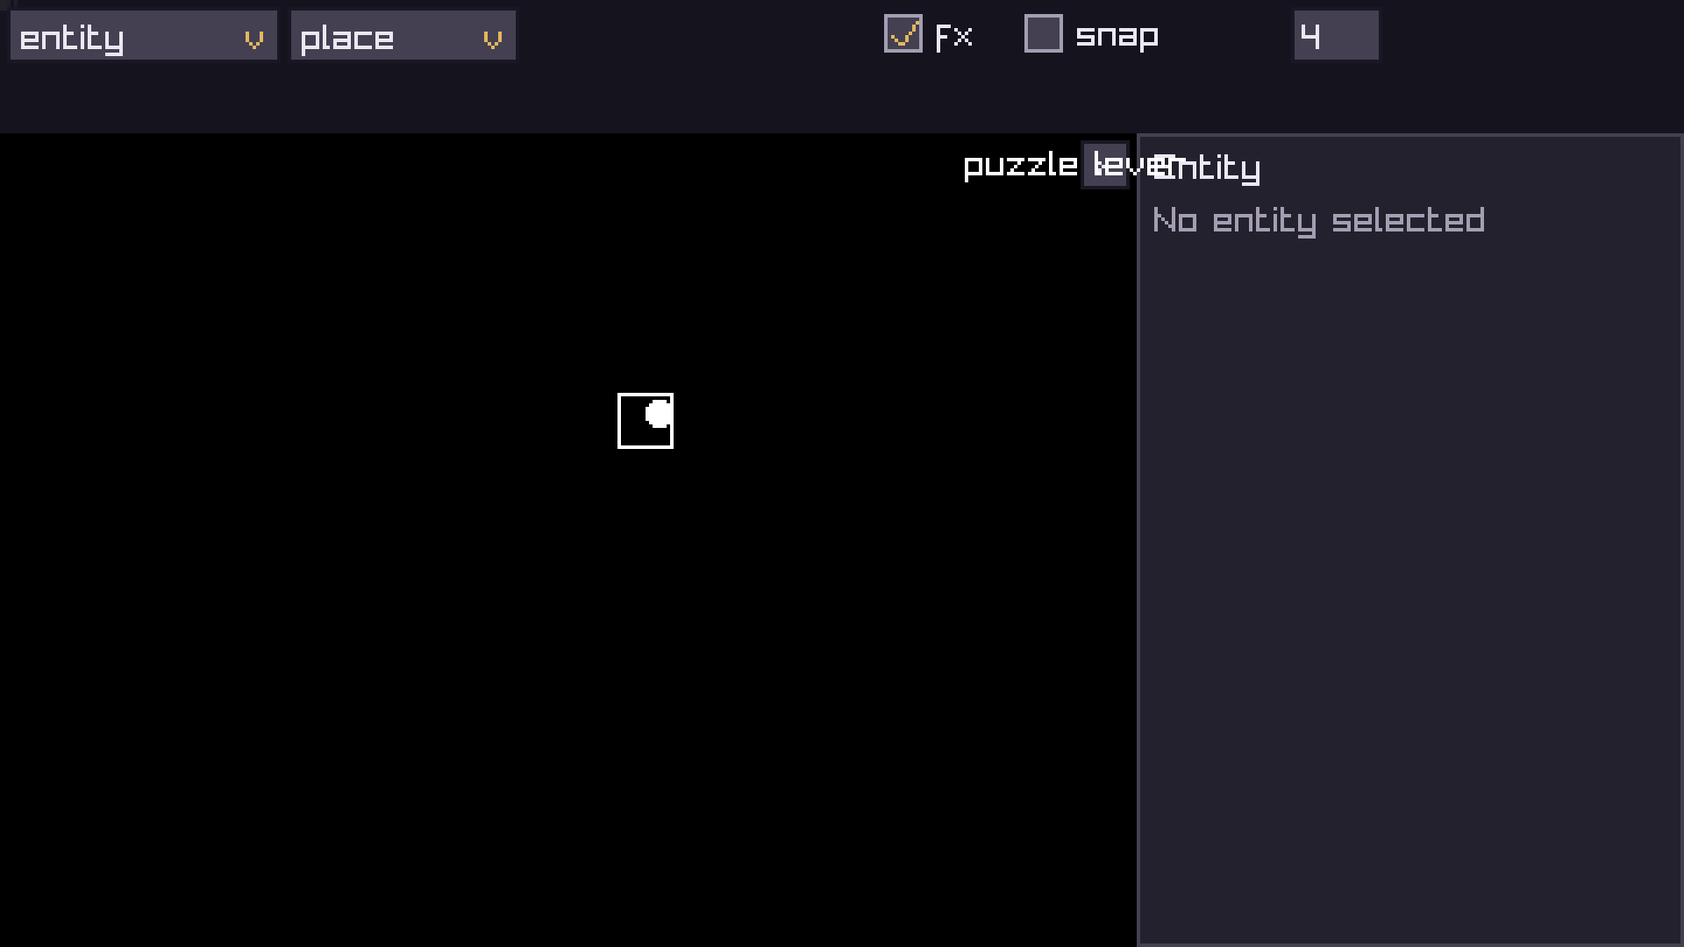
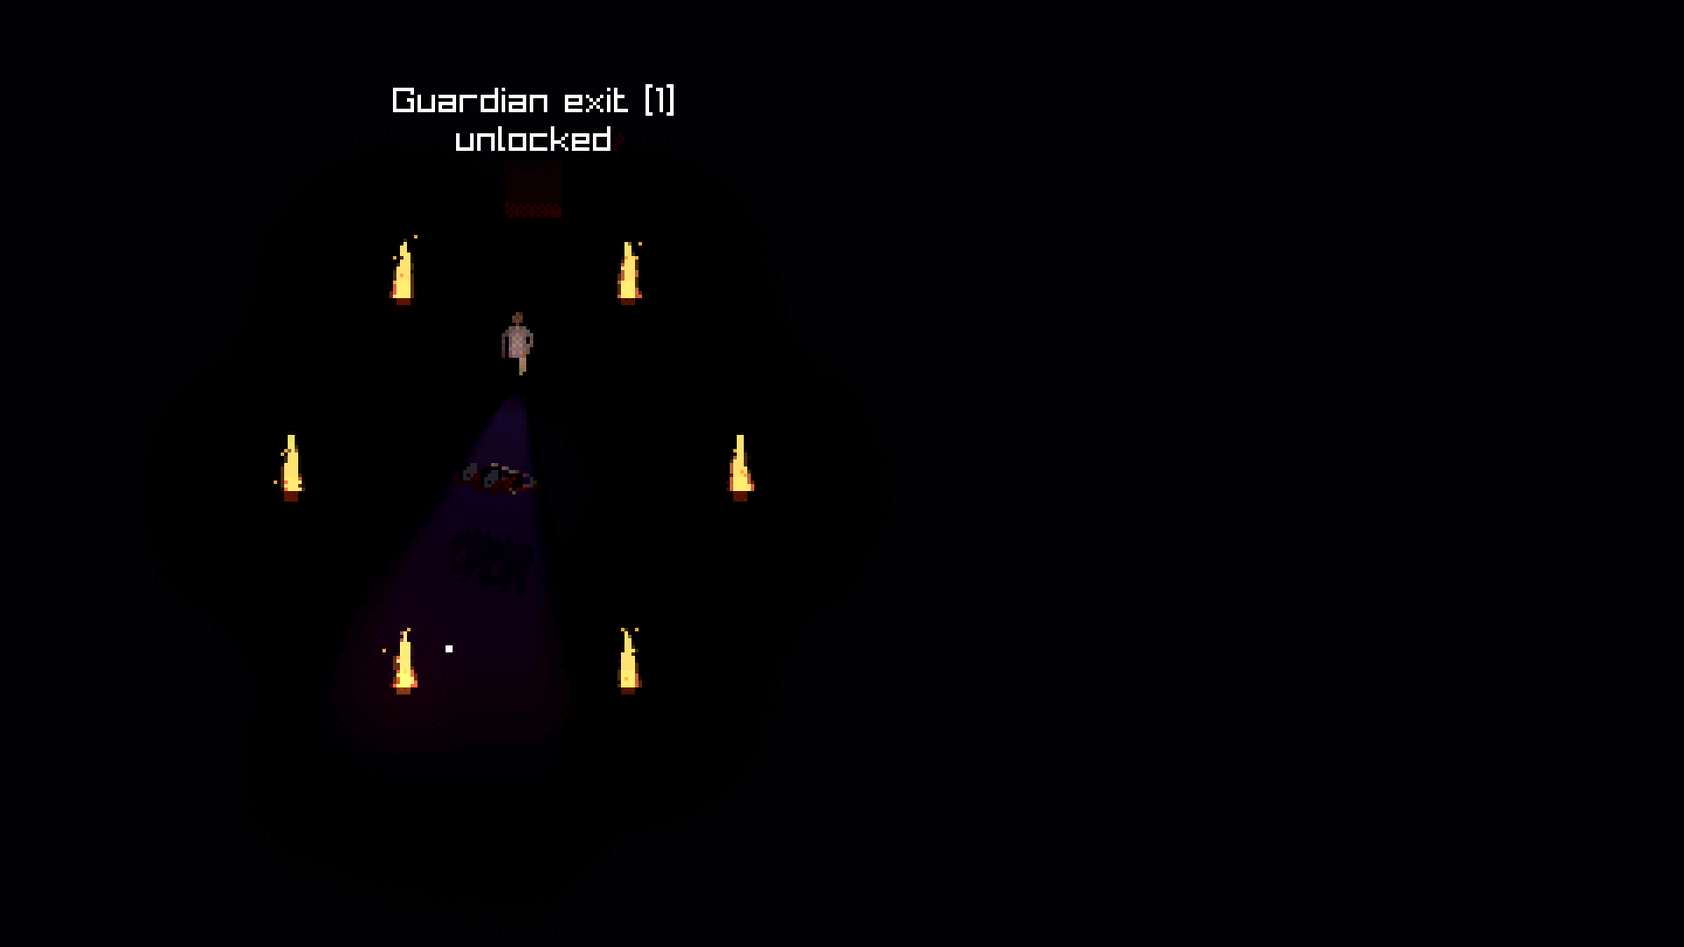
shadow height system

diff --git a/g_graphics.py b/g_graphics.py
@@ -1503,6 +1503,30 @@ def build_cinematic_shadow_quad(sprite_info, shadow_settings, flashlight_positio
         "light_height": light_height
     }
 
+    elevation = max(0., float(shadow_settings.get("elevation", 0.)))
+    if shadow_settings.get("mode") == "grounded" and "ground_rect" in sprite_info:
+        rect = sprite_info["ground_rect"]
+        bounds = sprite_info.get("pose_bounds", {"x": 0., "y": 0., "width": rect["width"], "height": rect["height"]})
+        maximum = max(0., float(shadow_settings.get("maximum_length", 72.)))
+        def ground_project(x, y):
+            return g_render_order.g_height.project({"x": rect["x"]+x, "y": rect["y"]+y},
+                elevation+cast_height, flashlight_position, light_height, maximum)
+        x, y, w, h = (bounds[k] for k in ("x", "y", "width", "height"))
+        quad.update(far_left=ground_project(x, y), far_right=ground_project(x+w, y),
+                    near_left=ground_project(x, y+h), near_right=ground_project(x+w, y+h))
+        return quad
+
+    if elevation > 0.:
+        maximum = max(0., float(shadow_settings.get("maximum_length", 72.)))
+        elevated_base = g_render_order.g_height.project(floor_anchor, elevation, flashlight_position, light_height, maximum)
+        elevated_top = g_render_order.g_height.project(floor_anchor, elevation+cast_height, flashlight_position, light_height, maximum)
+        near_center.update(elevated_base)
+        far_center.update(elevated_top)
+        quad.update(near_left=game.vec2_subtract(near_center, game.vec2_scale(side_direction, near_half_width)),
+                    near_right=game.vec2_add(near_center, game.vec2_scale(side_direction, near_half_width)),
+                    far_left=game.vec2_subtract(far_center, game.vec2_scale(side_direction, far_half_width)),
+                    far_right=game.vec2_add(far_center, game.vec2_scale(side_direction, far_half_width)))
+
     if "pose_bounds" in sprite_info:
         bounds, anchor = sprite_info["pose_bounds"], sprite_info["pose_anchor"]
         def project(x, y):
@@ -2280,9 +2304,10 @@ def character_foot_contacts(render_item):
         if foot is None:
             continue
         ground = part["foot_ground_y"]
-        lift = max(0.0, ground - foot["y"])
+        elevation = render_item.get("physical_height", {}).get("elevation", 0.)
+        lift = max(0.0, ground - foot["y"]) + elevation
         weight = max(0.0, 1.0 - lift / max(0.001, float(policy.get("fade_height", 4.0))))
-        result.append({"x": destination["x"] + foot["x"], "y": destination["y"] + ground,
+        result.append({"x": destination["x"] + foot["x"], "y": destination["y"] + ground + elevation,
                        "opacity": max(0.0, min(1.0, float(policy.get("opacity", 0.28)))) * weight * weight,
                        "radius_x": max(0.0, float(policy.get("radius_x", 1.8))) * (0.7 + 0.3 * weight),
                        "radius_y": max(0.0, float(policy.get("radius_y", 0.65))),
@@ -2307,14 +2332,18 @@ def draw_character_contact_shadows(scene, game_camera, render_items):
 
 
 def get_render_item_shadow_sprite_info(render_item, game_assets):
+    elevation = render_item.get("physical_height", {}).get("elevation", 0.)
+    ground_rect = dict(render_item.get("dest_rect", {}))
+    ground_rect["x"] = ground_rect.get("x", render_item.get("base_world", {}).get("x", 0.))
+    ground_rect["y"] = ground_rect.get("y", render_item.get("base_world", {}).get("y", 0.)) + elevation
     parts = render_item.get("draw_data", {}).get("cutout_rig_parts", [])
     bounds = cutout_shadow_bounds(parts, game_assets.get("textures", {})) if parts else None
     if bounds is not None:
         destination = render_item["dest_rect"]
         base = render_item["base_world"]
-        return {"pose_parts": parts, "pose_bounds": bounds,
+        return {"pose_parts": parts, "pose_bounds": bounds, "ground_rect": ground_rect,
                 "pose_anchor": {"x": base["x"] - destination["x"],
-                                "y": base["y"] - destination["y"]},
+                                "y": base["y"] - destination["y"] - elevation},
                 "texture": None, "source_rect": None, "base_world": dict(base),
                 "sprite_width": destination["width"], "sprite_height": destination["height"],
                 "visual_height": render_item.get("visual_height", destination["height"])}
@@ -2324,6 +2353,7 @@ def get_render_item_shadow_sprite_info(render_item, game_assets):
     source = render_item.get("source_rect", {})
     return {
         "texture": texture,
+        "ground_rect": ground_rect,
         "source_rect": pr.Rectangle(float(source.get("x", 0.0)), float(source.get("y", 0.0)), float(source.get("width", texture.width)), float(source.get("height", texture.height))),
         "base_world": dict(render_item.get("base_world", {})),
         "sprite_width": float(render_item.get("dest_rect", {}).get("width", source.get("width", texture.width))),
@@ -3091,6 +3121,15 @@ def draw_cinematic_shadow_debug(game_camera, render_items, game_assets, prepared
         far_center = world_point_to_screen(quad["far_center"], game_camera)
         pr.draw_circle(int(near_center["x"]), int(near_center["y"]), 2.0, near_color)
         pr.draw_circle(int(far_center["x"]), int(far_center["y"]), 2.0, far_color)
+        item = shadow["render_item"]
+        physical = item.get("physical_height", {})
+        base = world_point_to_screen(item["base_world"], game_camera)
+        elevation = physical.get("elevation", 0.)
+        pr.draw_line(int(base["x"]), int(base["y"]), int(base["x"]), int(base["y"]-elevation-physical.get("body_height", 0.)), pr.GREEN)
+        pr.draw_text(f"z={elevation:.1f} body={physical.get('body_height', 0.):.1f}", int(base["x"]+3), int(base["y"]-10), 7, pr.GREEN)
+        footprint = item.get("ground_footprint", {})
+        size, offset = footprint.get("size", {}), footprint.get("offset", {})
+        pr.draw_rectangle_lines(int(base["x"]+offset.get("x", 0.)-size.get("x", 0.)*.5), int(base["y"]+offset.get("y", 0.)-size.get("y", 0.)*.5), int(size.get("x", 0.)), int(size.get("y", 0.)), pr.GREEN)
         pr.draw_text(f"{shadow['render_item'].get('source_id')} {shadow['settings'].get('mode')} h={quad['cast_height']:.0f}/{quad['light_height']:.0f} len={quad['length']:.0f}", int(near_center["x"] + 3), int(near_center["y"] + 3), 7, quad_color)
 
     for index, skipped in enumerate(frame_data.get("skipped", [])):

diff --git a/g_render_order.py b/g_render_order.py
@@ -1,6 +1,7 @@
 import copy
 import math
 import g_animation
+import g_height
 import g_animation_player_data as player_animation_data
 from contextvars import ContextVar
 
@@ -215,15 +216,29 @@ def make_world_render_item(kind, source, source_id, object_id, entity, world_pos
     anchor = entity.get("render_anchor_offset", {})
     base = offset_point(world_position, entity.get("render_base_offset", {}))
     dest = {"x": world_position["x"] + float(anchor.get("x", 0.0)), "y": world_position["y"] + float(anchor.get("y", 0.0)), "width": float(width), "height": float(height)}
-    return {
+    physical = g_height.resolve(entity)
+    dest["y"] -= physical["elevation"]
+    shadow = dict(entity.get("shadow", {}))
+    shadow["elevation"] = physical["elevation"]
+    if physical["profile"] != "upright" or "body_height" in entity.get("height_overrides", {}):
+        shadow.update(mode=physical["projection"], cast_height=physical["body_height"])
+    result = {
         "kind": kind, "source": source, "source_id": source_id, "id": object_id, "texture": texture, "source_rect": dict(source_rect), "dest_rect": dest,
         "sort_layer": "world", "sort_y": float(base["y"]), "base_world": base, "bounds_world": dict(dest), "visual_height": float(entity.get("visual_height", height)),
         "light_sample_height": float(entity.get("light_sample_height", entity.get("visual_height", height) * 0.55)), "ground_footprint": entity.get("ground_footprint", {}),
-        "self_shadow": entity.get("self_shadow", {}), "entity_light_occluder": entity.get("entity_light_occluder", {}), "shadow": entity.get("shadow", {}), "render_style": entity.get("render_style", "world"),
+        "self_shadow": entity.get("self_shadow", {}), "entity_light_occluder": entity.get("entity_light_occluder", {}), "shadow": shadow, "render_style": entity.get("render_style", "world"),
         "outline": entity.get("outline", {}), "occludes_render_items": bool(entity.get("occludes_render_items", False)), "fog_interaction": entity.get("fog_interaction", {"mode": "standard"}),
         "water_interaction": entity.get("water_interaction", {"mode": "standard"}), "draw_data": draw_data or {},
         "contact_shadow": entity.get("contact_shadow", {})
     }
+    result.update(physical_height=physical, visual_height=physical["body_height"],
+                  light_sample_height=physical["sample_height"])
+    if physical["projection"] == "grounded":
+        result["self_shadow"] = dict(mode="none", strength=0., back_fill=1.)
+        result["ground_footprint"] = dict(shape="rectangle",
+            offset={"x": dest["x"]+width*.5-base["x"], "y": dest["y"]+physical["elevation"]+height*.5-base["y"]},
+            size={"x": width, "y": height})
+    return result
 
 
 def _asset_dimension(game_assets, collection, name, dimension, fallback):

diff --git a/g_sequences.py b/g_sequences.py
@@ -2,6 +2,7 @@
 import copy
 import math
 import uuid
+import zlib
 
 import g_sequence_data as data
 import g_puzzles as puzzles
@@ -16,6 +17,12 @@ def new_id(prefix):
     return prefix + ":" + uuid.uuid4().hex
 
 
+def fire_seed(identity):
+    """Stable across reloads/processes, within the fire shader's seed range."""
+    seed = 1 + zlib.crc32(str(identity).encode("utf-8")) % 65520
+    return 2208 if seed == 2207 else seed
+
+
 def definition_id(arena, kind, name):
     definitions = arena["world_sequences"][kind]
     if name in definitions:
@@ -28,6 +35,12 @@ def definition_id(arena, kind, name):
 
 def ensure(arena):
     arena = puzzles.ensure_arena(arena)
+    for identity, emitter in arena["entities"].get("emitters", {}).items():
+        if emitter.get("sequence_torch") and not emitter.get("individual_fire_seed"):
+            # Upgrade old torches once; retain seeds already tuned in the editor.
+            if emitter.get("seed", 2207) == 2207:
+                emitter["seed"] = fire_seed(identity)
+            emitter["individual_fire_seed"] = True
     if "world_sequences" not in arena:
         arena = arena.set("world_sequences", {"sequences": {}, "triggers": {}, "encounters": {}})
     if "sequence_state" not in arena:
@@ -94,7 +107,8 @@ def tile_position(point, tile_map):
 def create_torch(arena, point):
     identity = new_id("torch")
     torch = g_effects.make_default_fire_emitter(tile_position(point, arena["tile_map"]))
-    torch.update(sequence_torch=True, initially_lit=False, size={"x": 9., "y": 17.},
+    torch.update(sequence_torch=True, seed=fire_seed(identity), individual_fire_seed=True,
+                 initially_lit=False, size={"x": 9., "y": 17.},
                  area_size={"x": 5., "y": 3.})
     torch["light"].update(radius=58., intensity=0.8)
     arena["entities"].setdefault("emitters", {})[identity] = torch
@@ -444,7 +458,8 @@ def presentation_entities(arena, preview=None):
             elif weight > 0:
                 key = f"sequence_path:{record_id}:{index}"
                 emitter = g_effects.make_default_fire_emitter(tile_position(site["point"], arena["tile_map"]))
-                emitter.update(size={"x": 8., "y": 14.}, area_size={"x": 4., "y": 2.}, opacity=.94*weight)
+                emitter.update(seed=fire_seed(key), size={"x": 8., "y": 14.},
+                               area_size={"x": 4., "y": 2.}, opacity=.94*weight)
                 emitter["light"].update(enabled=index % max(1, math.ceil(len(sites)/MAX_PATH_LIGHTS)) == 0,
                                         intensity=.5*weight, radius=45.)
                 entities["emitters"][key] = emitter

diff --git a/g_animation_editor_ui.py b/g_animation_editor_ui.py
@@ -5,6 +5,7 @@ import math
 import pyray as pr
 import g_ui
 import g_animation_authoring as authoring
+import g_height
 
 
 def row(ui, actions):
@@ -53,11 +54,27 @@ def draw(ui, state, character="redhead"):
         # Keep the edited pose stable while continuous playback advances separately.
         if changed or track_changed:
             debug.update(playback="keyframe", keyframe=index, phase=index * math.tau / 4)
-        group_options = ("legs", "arms", "body", "rig") if character == "player" else ("side legs", "front legs", "arms", "body", "rig")
+        group_options = ("legs", "arms", "body", "rig", "height") if character == "player" else ("side legs", "front legs", "arms", "body", "rig", "height")
         group, _ = g_ui.ui_dropdown(ui, "animation_edit:group", "group",
                                     debug.get("edit_group", "side legs"),
                                     group_options, max_visible=5)
         debug["edit_group"] = group
+        if group == "height":
+            debug["height_preview"], _ = g_ui.ui_dropdown(ui, "height:profile", "profile",
+                debug.get("height_preview", "auto"), ("auto", "upright", "fallen"), max_visible=3)
+            debug["elevation_preview"], _ = g_ui.ui_number_input_float(ui, "height:elevation", "elevation",
+                debug.get("elevation_preview", 0.), 0., 64.)
+            profile = g_height.data.PROFILES["fallen"]
+            profile["body_height"], _ = g_ui.ui_number_input_float(ui, "height:body", "fallen height", profile["body_height"], 0.1, 24.)
+            profile["sample_height"], _ = g_ui.ui_number_input_float(ui, "height:sample", "fallen light", profile["sample_height"], 0., 24.)
+            def save_heights():
+                from pathlib import Path
+                import pprint
+                Path(g_height.data.__file__).write_text('"""Physical render profiles, in world units."""\nPROFILES = '+pprint.pformat(g_height.data.PROFILES, sort_dicts=False)+'\n', encoding="utf-8")
+            row(ui, (("height_save", "Save heights to code", save_heights),))
+            row(ui, (("height_reset", "Reset elevation preview", lambda: debug.update(elevation_preview=0., height_preview="auto")),))
+            g_ui.ui_label(ui, "Fallen settings apply globally", font_size=8)
+            return
         profile_path = authoring.pose_path(character, debug["facing"], group, track)
         pose = authoring.get_path(draft["document"], profile_path)[index]
         rig_name = "PLAYER_CUTOUT_RIG_DEFAULTS" if character == "player" else "REDHEAD_CUTOUT_RIG_DEFAULTS"

diff --git a/test_height.py b/test_height.py
@@ -1,0 +1,42 @@
+import unittest
+import g_height
+import g_render_order as render
+import g_graphics as graphics
+
+
+class HeightTests(unittest.TestCase):
+    def item(self, **fields):
+        entity = dict(current_state="idle", **fields)
+        return render.make_world_render_item("entity", "red head", "test", "test", entity,
+            {"x": 100., "y": 100.}, 24., 24., {}, {})
+
+    def test_elevation_preserves_ground_and_sorting(self):
+        ground, air = self.item(), self.item(elevation=10.)
+        self.assertEqual(ground["base_world"], air["base_world"])
+        self.assertEqual(ground["sort_y"], air["sort_y"])
+        self.assertEqual(ground["dest_rect"]["y"]-10., air["dest_rect"]["y"])
+        self.assertEqual(ground["light_sample_height"]+10., air["light_sample_height"])
+
+    def test_dead_profile_and_override(self):
+        entity = dict(current_state="dead", visual_height=24.)
+        self.assertEqual(g_height.resolve(entity)["body_height"], 3.)
+        entity["height_overrides"] = {"body_height": 4.}
+        self.assertEqual(g_height.resolve(entity)["body_height"], 4.)
+        self.assertEqual(entity["visual_height"], 24.)
+
+    def test_grounded_silhouette_stays_near_body(self):
+        info = dict(base_world={"x": 100., "y": 100.}, sprite_width=24.,
+                    ground_rect={"x": 88., "y": 88., "width": 24., "height": 24.})
+        settings = dict(mode="grounded", cast_height=3., maximum_length=72.)
+        light = {"x": 100., "y": 0.}
+        quad = graphics.build_cinematic_shadow_quad(info, settings, light, 30.)
+        self.assertAlmostEqual(quad["far_left"]["y"], 88.+88./9.)
+        self.assertGreater(quad["near_left"]["y"], quad["far_left"]["y"])
+        settings["elevation"] = 5.
+        lifted = graphics.build_cinematic_shadow_quad(info, settings, light, 30.)
+        self.assertGreater(lifted["far_left"]["y"], quad["far_left"]["y"])
+
+    def test_projection_limits(self):
+        point, light = {"x": 10., "y": 0.}, {"x": 0., "y": 0.}
+        self.assertEqual(g_height.project(point, 0., light, 20., 72.), point)
+        self.assertEqual(g_height.project(point, 25., light, 20., 72.)["x"], 82.)

diff --git a/test_sequences.py b/test_sequences.py
@@ -35,6 +35,24 @@ class SequenceTests(unittest.TestCase):
         s.start_sequence(self.arena, "test")
         self.assertEqual(len(self.arena["sequence_runtime"]["sounds"]), 5)
 
+    def test_torch_seeds_upgrade_once_and_survive_save(self):
+        with patch.object(s, "new_id", side_effect=["torch:a", "torch:b", "torch:c"]):
+            definition = self.sequence()
+        torches = [s.resolve(self.arena, ref) for ref in definition["targets"]]
+        self.assertEqual(len({obj["seed"] for obj in torches}), 3)
+        for obj in torches:
+            obj.pop("individual_fire_seed")
+        torches[0]["seed"] = 2207
+        torches[1].pop("seed")
+        torches[2]["seed"] = 123
+        self.arena = s.ensure(self.arena)
+        self.assertEqual([obj["seed"] for obj in torches],
+                         [s.fire_seed("torch:a"), s.fire_seed("torch:b"), 123])
+        # After migration, even an intentional default seed is left alone.
+        torches[0]["seed"] = 2207
+        restored = s.ensure(pickle.loads(pickle.dumps(self.arena)))
+        self.assertEqual(restored["entities"]["emitters"], self.arena["entities"]["emitters"])
+
     def test_save_mid_sequence_preserves_cursor_without_replaying_cues(self):
         self.sequence()
         s.start_sequence(self.arena, "test")
@@ -71,6 +89,12 @@ class SequenceTests(unittest.TestCase):
         emitters = s.presentation_entities(self.arena, preview)["emitters"]
         self.assertLessEqual(sum(obj["light"]["enabled"] for obj in emitters.values()), s.MAX_PATH_LIGHTS)
         self.assertEqual(set(emitters), set(s.presentation_entities(self.arena, preview)["emitters"]))
+        seeds = {key: obj["seed"] for key, obj in emitters.items()}
+        self.assertEqual(len(set(seeds.values())), len(seeds))
+        preview = pickle.loads(pickle.dumps(preview))
+        preview["elapsed"] += 1.
+        self.assertEqual(seeds, {key: obj["seed"] for key, obj in
+                                s.presentation_entities(self.arena, preview)["emitters"].items()})
 
     def test_pulse_and_fill_timing(self):
         definition = self.sequence(2)

diff --git a/g_height.py b/g_height.py
@@ -1,0 +1,26 @@
+"""Physical render profiles, in world units. Plain data, independent of sprite size."""
+import g_height_data as data
+
+
+def resolve(entity):
+    name = entity.get("height_profile", "auto")
+    if name == "auto":
+        name = "fallen" if entity.get("current_state") == "dead" else "upright"
+    profile = dict(data.PROFILES.get(name, data.PROFILES["upright"]))
+    profile.update(entity.get("height_overrides", {}))
+    body = max(0., float(profile.get("body_height", entity.get("visual_height", 0.))))
+    elevation = max(0., float(entity.get("elevation", 0.)))
+    return dict(profile=name, body_height=body, elevation=elevation,
+                sample_height=elevation + max(0., float(profile.get("sample_height", entity.get("light_sample_height", body*.55)))),
+                projection=profile.get("projection", entity.get("shadow", {}).get("mode", "none")))
+
+
+def project(point, height, light, light_height, maximum):
+    """Project a point onto z=0; cap rays at/below the light plane."""
+    import math
+    dx, dy = point["x"]-light["x"], point["y"]-light["y"]
+    distance = math.hypot(dx, dy)
+    if distance < .000001 or height <= 0.:
+        return dict(point)
+    displacement = maximum if light_height <= height else min(maximum, distance*height/(light_height-height))
+    return {"x": point["x"]+dx*displacement/distance, "y": point["y"]+dy*displacement/distance}

diff --git a/g_editor.py b/g_editor.py
@@ -645,6 +645,9 @@ def update_animation_debug_preview(editor_state, editor_mode, entities,
         if frames:
             fields["animation_frame"] = frames[keyframe % len(frames)]
 
+    if debug.get("authoring"):
+        fields["elevation"] = debug.get("elevation_preview", 0.)
+        fields["height_profile"] = debug.get("height_preview", "auto")
     character = "player" if entity.get("id") == "player" or collection_name == "player" else "redhead"
     draft = editor_state.get(character + "_animation_draft")
     if draft and draft.get("preview"):
@@ -2121,7 +2124,7 @@ def draw_fixed_animation_preview(ui_state, editor_state, entities, player_entity
     canvas = 32.0 if player else 24.0
     ground_y = 232.0
     origin = {"x": 152.0 - canvas * scale / 2,
-              "y": ground_y - (30.0 if player else 21.0) * scale}
+              "y": ground_y - ((30.0 if player else 21.0) + float(specimen.get("elevation", 0.))) * scale}
     pr.draw_line(28, int(ground_y), 276, int(ground_y), g_ui.UI_NORMAL)
     pr.begin_scissor_mode(9, 72, 286, 180)
     drawn = g_graphics.draw_screen_cutout_preview(parts, origin, scale, game_assets)

diff --git a/g_main.py b/g_main.py
@@ -19,6 +19,8 @@ update_and_render_file = "g_update_and_render"
 update_and_render_module = importlib.import_module(update_and_render_file)
 
 g_reloadable_modules = [
+    ("g_height_data", update_and_render_module.g_render_order.g_height.data),
+    ("g_height", update_and_render_module.g_render_order.g_height),
     ("g_sequence_data", update_and_render_module.g_sequences.data),
     ("g_sequences", update_and_render_module.g_sequences),
     ("g_sequence_editor", update_and_render_module.g_sequence_editor),

diff --git a/g_height_data.py b/g_height_data.py
@@ -1,0 +1,5 @@
+"""Hot-reloadable physical render profiles, in world units."""
+PROFILES = {
+    "upright": {},
+    "fallen": {"body_height": 3.0, "sample_height": 1.5, "projection": "grounded"},
+}

diff --git a/HEIGHT_PROFILES.md b/HEIGHT_PROFILES.md
@@ -1,0 +1,27 @@
+# Render height and grounded shadows
+
+Entities may author `elevation` (world units above the floor), `height_profile`
+(`auto`, `upright`, `fallen`), and `height_overrides` (body_height, sample_height,
+projection). These plain fields save with the entity. Auto selects fallen for
+the dead state; standing entities retain their existing authored dimensions.
+`g_height_data.py` contains shared hot-reloadable profile defaults.
+
+Elevation shifts the sprite upward without moving its ground position or sort
+anchor. Lighting sample height rises with it. Shadow rays use elevation plus
+body height; lights below a projected point use the existing maximum distance.
+Grounded silhouettes retain their floor orientation instead of being flattened
+from an upright billboard. Their thickness determines displacement.
+
+Animation editor: select the **height** group. Elevation and profile are preview
+overrides, cleared by **Reset elevation preview**. Fallen height/light controls
+adjust the shared profile live; **Save heights to code** writes g_height_data.py.
+The fixed specimen preview shows sprite lift against its baseline; inspect a
+level entity under the flashlight to see the projected shadow. The existing
+cinematic shadow debug overlay shows elevation, body height and footprint.
+Restart once to register the new modules with the reload watcher.
+
+This is a floor projection approximation: the corpse uses one low plane and a
+conservative sprite-sized footprint, not per-pixel thickness. Existing upright
+shadow styling remains available. This does not add jumping input, airborne
+collisions, shadow receivers on walls, or shadows from additional lights.
+Foot contact shadows remain disabled by their existing master toggle.
